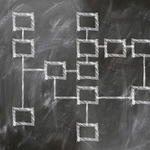
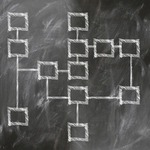
Fixed ISA image and overview image

diff --git a/static/css/overview.css b/static/css/overview.css
@@ -25,3 +25,9 @@
     display: block;
     margin: 0 auto;
 }
+
+@media (min-width: 1920px) {
+    #overview-background {
+        width: 100%;
+    }
+}
